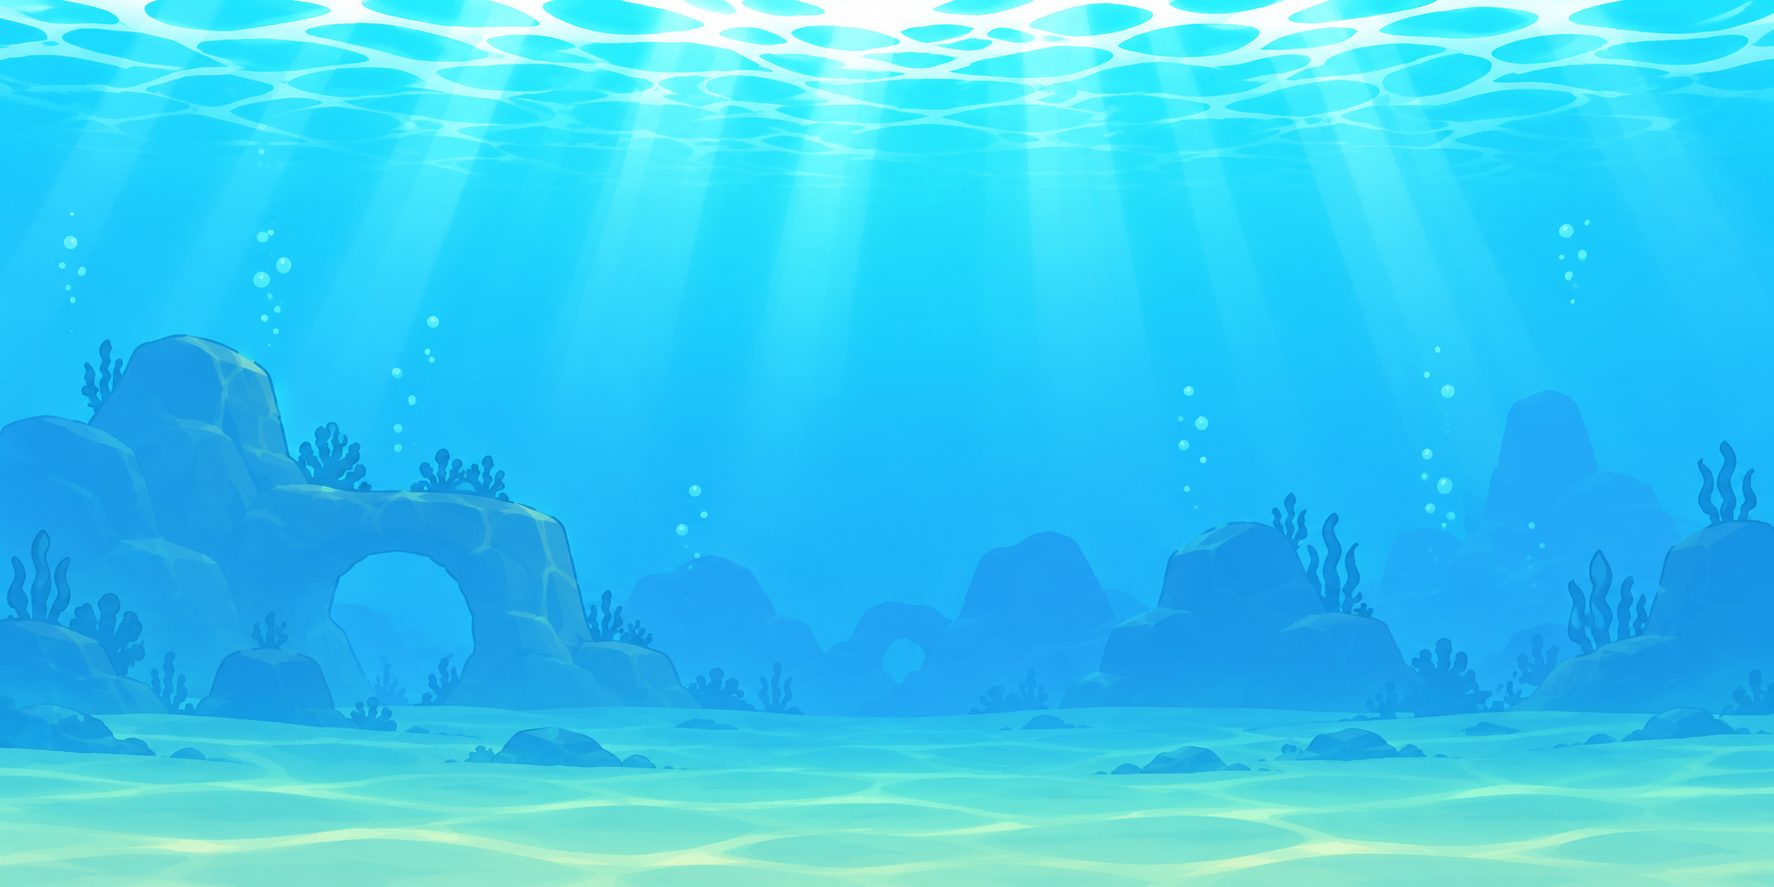
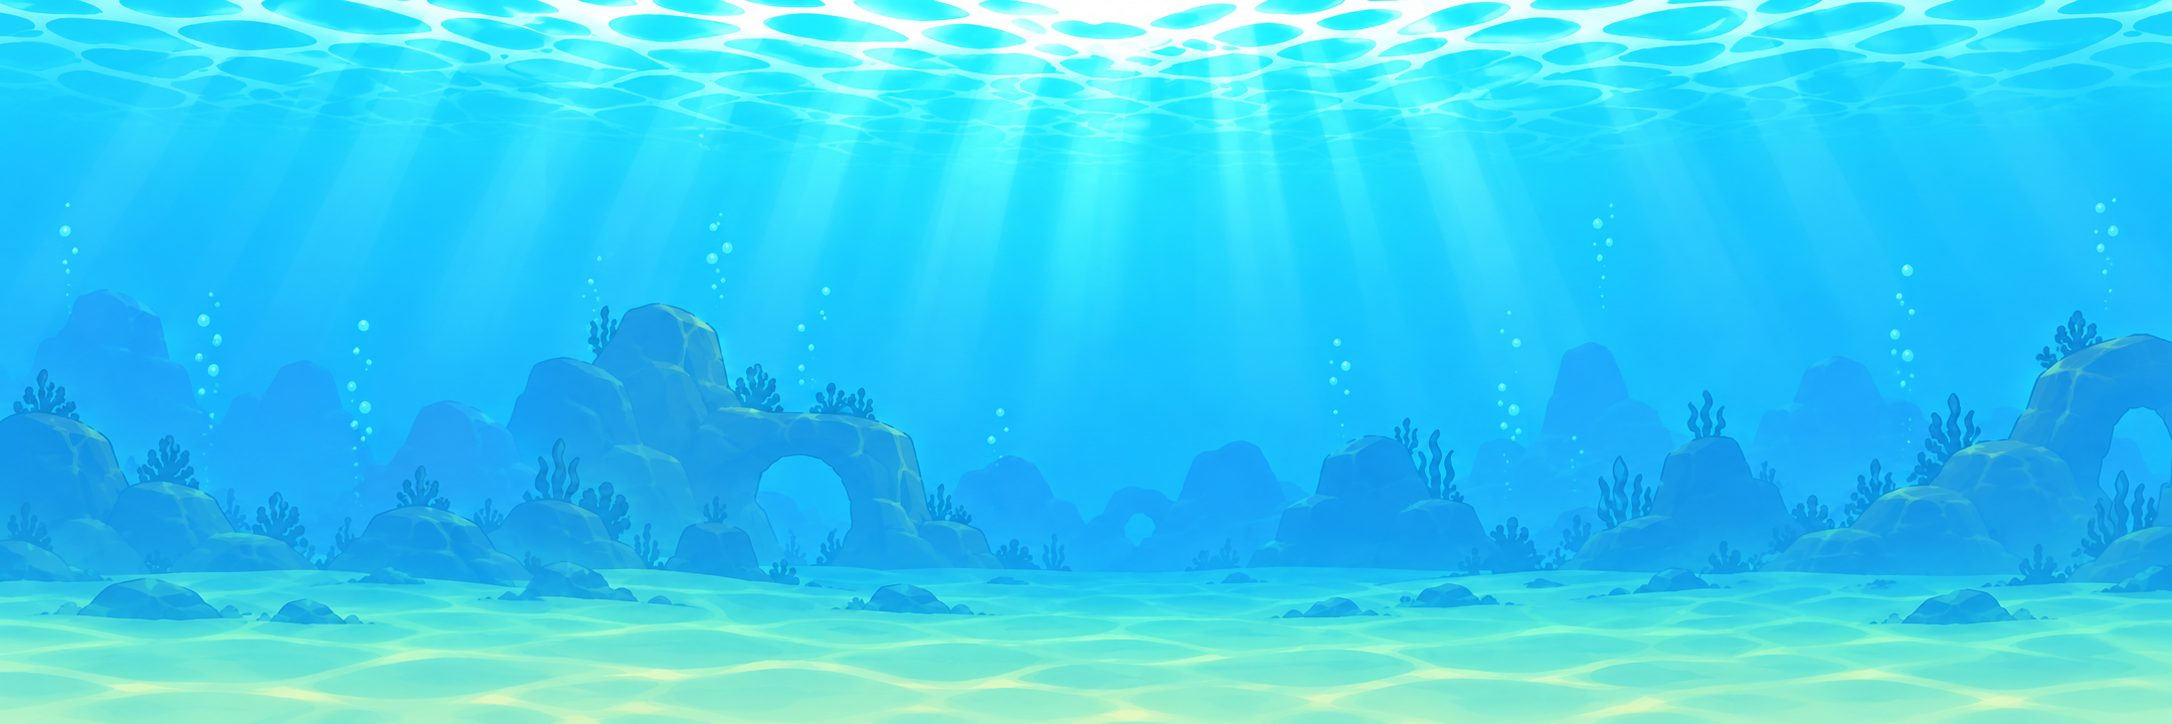
Breite Hintergründe und vier neue Welten
Jedes Level hat jetzt einen eigenen Hintergrund (3:1): Eiswelt für Strömung,
Schiffswrack für Geisternetze, Steg für Müllstrudel, offenes Meer für die
Seegraswiese. Tiefsee-Leuchtwelt und violettes Leuchtriff liegen bereit.

Claude-Session: https://claude.ai/code/session_013myMAyhZy8tkgLjGmp5djs

diff --git a/index.html b/index.html
@@ -258,19 +258,19 @@ const FACTS = [
 const LEVELS = [
   {name:'Lagune', sub:'ruhig und flach', bg:'bg_hell', floor:'boden_lagune', gf:.70, top:'#8ae6e8', bot:'#12627e', speed:.85, gap:2.0, fish:5,
    bads:['fels','seeigel'], stars:[25,50], intro:'Sammle Seegras, Muscheln und Seesterne!'},
-  {name:'Seegraswiese', sub:'viel zu futtern', bg:'bg_hell', floor:'boden_lagune', gf:.70, top:'#8ae6e8', bot:'#12627e', speed:.9, gap:1.8, fish:4,
+  {name:'Seegraswiese', sub:'viel zu futtern', bg:'bg_offen', floor:'boden_lagune', gf:.70, top:'#8ae6e8', bot:'#12627e', speed:.9, gap:1.8, fish:4,
    bads:['seeigel','fels','tuete','kugelfisch','strohhalm'], goods:{seegras:9,krabbe:3,muschel:2,stern:1,seepferd:.6,qualle:1}, stars:[30,55], intro:'Hier wächst viel Seegras. Friss dich satt!'},
   {name:'Korallenriff', sub:'bunt und stachelig', bg:'bg_riff', floor:'boden_riff', gf:.62, top:'#7fd8ee', bot:'#173f73', speed:1.0, gap:1.6, fish:3,
    bads:['seeigel','fels','tuete','kugelfisch','becher','strohhalm'], stars:[30,60], intro:'Vorsicht vor den stacheligen Seeigeln!'},
-  {name:'Strömung', sub:'das Wasser zieht', bg:'bg_riff', floor:'boden_riff', gf:.62, top:'#7fd8ee', bot:'#173f73', speed:1.0, gap:1.6, fish:3, current:70,
-   bads:['seeigel','tuete','flasche','haken','kugelfisch','strohhalm','sixpack'], stars:[30,60], intro:'Achtung, Strömung! Das Wasser zieht Ocean hoch und runter.'},
+  {name:'Strömung', sub:'eisig und strömend', bg:'bg_eis', floor:'boden_lagune', gf:.70, top:'#7fd8ee', bot:'#173f73', speed:1.0, gap:1.6, fish:3, current:70,
+   bads:['seeigel','tuete','flasche','haken','kugelfisch','strohhalm','sixpack'], stars:[30,60], intro:'Brrr, eiskalt! Und die Strömung zieht Ocean hoch und runter.'},
   {name:'Hafen', sub:'viel Müll im Wasser', bg:'bg_hafen', floor:'boden_hafen2', gf:.70, top:'#9fc3cc', bot:'#1d3f52', speed:1.05, gap:1.45, fish:8,
    bads:['tuete','flasche','dose','netz','reifen','eimer','anker','kanister','plastik','becher','sixpack'], stars:[30,60], intro:'Im Hafen liegt viel Müll. Weich ihm aus!'},
-  {name:'Geisternetze', sub:'nicht verfangen', bg:'bg_hafen', floor:'boden_hafen', gf:.62, top:'#9fc3cc', bot:'#1d3f52', speed:1.05, gap:1.5, fish:8, bigNets:true,
+  {name:'Geisternetze', sub:'das alte Wrack', bg:'bg_wrack', floor:'boden_hafen', gf:.62, top:'#9fc3cc', bot:'#1d3f52', speed:1.05, gap:1.5, fish:8, bigNets:true,
    bads:['netz','netz','netz','dose','reifen','anker','sixpack','kanister'], stars:[30,60], intro:'Alte Fischernetze treiben im Wasser. Nicht verfangen!'},
   {name:'Tiefsee', sub:'dunkel und still', bg:'bg_tief', floor:'boden_tief', gf:.70, top:'#1b4a7a', bot:'#061a33', speed:.95, gap:1.6, fish:6, dark:true,
    bads:['angler','angler','seeigel','fels','netz','kanister'], goods:{seegras:2,qualle:7,muschel:2,stern:1.2,schatz:.6}, stars:[30,55], intro:'Hier unten ist es dunkel. Ocean sieht nur, was nah ist.'},
-  {name:'Müllstrudel', sub:'such die Lücke', bg:'bg_hafen', floor:'boden_hafen2', gf:.70, top:'#9fc3cc', bot:'#1d3f52', speed:1.05, gap:2.4, fish:9, wall:3.4,
+  {name:'Müllstrudel', sub:'such die Lücke', bg:'bg_steg', floor:'boden_hafen2', gf:.70, top:'#9fc3cc', bot:'#1d3f52', speed:1.05, gap:2.4, fish:9, wall:3.4,
    bads:['tuete','dose','reifen','eimer','anker','becher','kanister','plastik','sixpack'], stars:[30,60], intro:'Ganze Müllwände! Such die Lücke.'},
   {name:'Wilde See', sub:'schnell und wild', bg:'bg_wild', floor:'boden_riff', gf:.62, top:'#7fd8ee', bot:'#173f73', speed:1.2, gap:1.35, fish:3, current:90,
    bads:['tuete','flasche','dose','netz','seeigel','fels','haken','haken','kugelfisch','becher','strohhalm','plastik'], stars:[35,65], intro:'Schnell und wild. Halt durch!'},
@@ -373,7 +373,7 @@ const L = () => LEVELS[S.lvl];
 const OR = () => 34*U;
 
 // Grafiken aus den Asset-Paketen
-const ASSETS = {"bg_heim1": [1774, 887], "bg_heim2": [1774, 887], "bg_heim3": [1774, 887], "tuete": [214, 255], "flasche": [165, 256], "dose": [220, 255], "netz": [197, 256], "seeigel": [252, 255], "seegras": [184, 256], "muschel": [256, 250], "stern": [248, 256], "herz": [234, 256], "boje": [237, 256], "fels1": [384, 281], "fels2": [384, 261], "fels3": [384, 265], "eimer": [384, 288], "reifen": [384, 235], "fisch1": [200, 162], "fisch2": [200, 140], "fisch3": [200, 161], "blasen1": [200, 177], "blasen2": [220, 133], "bg_hell": [1774, 887], "bg_riff": [1774, 887], "bg_hafen": [1774, 887], "boden_lagune": [1520, 451], "boden_riff": [1520, 420], "boden_hafen": [1520, 492], "boden_mix": [1520, 457], "seepferd": [152, 256], "schatz": [256, 247], "kugelfisch": [256, 212], "angler": [256, 194], "krabbe": [256, 197], "qualle": [218, 256], "anker": [194, 419], "haken": [103, 420], "bg_tief": [1774, 887], "bg_wild": [1774, 887], "boden_tief": [1520, 492], "boden_hafen2": [1520, 490], "torpedo": [256, 109], "gurtretter": [256, 97], "m_dose1": [135, 220], "m_dose2": [138, 217], "m_dose3": [142, 220], "m_dose4": [137, 208], "m_dose5": [146, 220], "m_dose6": [153, 203], "m_dose7": [133, 220], "m_flasche1": [95, 220], "m_flasche2": [115, 220], "m_flasche3": [124, 220], "m_flasche4": [113, 220], "m_flasche5": [220, 104], "m_flasche6": [220, 111], "m_flasche7": [220, 132], "m_netz1": [220, 126], "m_becher1": [117, 220], "m_becher2": [125, 220], "m_becher3": [117, 220], "m_becher4": [220, 187], "m_strohhalm1": [178, 200], "m_strohhalm2": [118, 220], "m_sixpack1": [220, 165], "m_kanister1": [183, 220], "m_kanister2": [141, 220], "m_kanister3": [163, 220], "m_kanister4": [174, 220], "m_plastik1": [218, 176], "m_plastik2": [220, 180], "m_plastik3": [220, 187], "m_tuete1": [204, 240], "m_tuete2": [214, 240], "m_tuete3": [220, 240], "m_tuete4": [237, 240], "m_tuete5": [228, 240]};
+const ASSETS = {"bg_offen": [2172, 724], "bg_steg": [2172, 724], "bg_eis": [2172, 724], "bg_wrack": [2172, 724], "bg_leucht": [2172, 724], "bg_violett": [2172, 724], "bg_heim1": [1774, 887], "bg_heim2": [1774, 887], "bg_heim3": [1774, 887], "tuete": [214, 255], "flasche": [165, 256], "dose": [220, 255], "netz": [197, 256], "seeigel": [252, 255], "seegras": [184, 256], "muschel": [256, 250], "stern": [248, 256], "herz": [234, 256], "boje": [237, 256], "fels1": [384, 281], "fels2": [384, 261], "fels3": [384, 265], "eimer": [384, 288], "reifen": [384, 235], "fisch1": [200, 162], "fisch2": [200, 140], "fisch3": [200, 161], "blasen1": [200, 177], "blasen2": [220, 133], "bg_hell": [1774, 887], "bg_riff": [1774, 887], "bg_hafen": [1774, 887], "boden_lagune": [1520, 451], "boden_riff": [1520, 420], "boden_hafen": [1520, 492], "boden_mix": [1520, 457], "seepferd": [152, 256], "schatz": [256, 247], "kugelfisch": [256, 212], "angler": [256, 194], "krabbe": [256, 197], "qualle": [218, 256], "anker": [194, 419], "haken": [103, 420], "bg_tief": [1774, 887], "bg_wild": [1774, 887], "boden_tief": [1520, 492], "boden_hafen2": [1520, 490], "torpedo": [256, 109], "gurtretter": [256, 97], "m_dose1": [135, 220], "m_dose2": [138, 217], "m_dose3": [142, 220], "m_dose4": [137, 208], "m_dose5": [146, 220], "m_dose6": [153, 203], "m_dose7": [133, 220], "m_flasche1": [95, 220], "m_flasche2": [115, 220], "m_flasche3": [124, 220], "m_flasche4": [113, 220], "m_flasche5": [220, 104], "m_flasche6": [220, 111], "m_flasche7": [220, 132], "m_netz1": [220, 126], "m_becher1": [117, 220], "m_becher2": [125, 220], "m_becher3": [117, 220], "m_becher4": [220, 187], "m_strohhalm1": [178, 200], "m_strohhalm2": [118, 220], "m_sixpack1": [220, 165], "m_kanister1": [183, 220], "m_kanister2": [141, 220], "m_kanister3": [163, 220], "m_kanister4": [174, 220], "m_plastik1": [218, 176], "m_plastik2": [220, 180], "m_plastik3": [220, 187], "m_tuete1": [204, 240], "m_tuete2": [214, 240], "m_tuete3": [220, 240], "m_tuete4": [237, 240], "m_tuete5": [228, 240]};
 const TILE = {"anker": 51, "haken": 10};
 const SPR = {};
 for (const k in ASSETS){ const im = new Image(); im.src = 'img/' + k + (k.startsWith('bg_') ? '.jpg' : '.webp'); SPR[k] = im; }

diff --git a/README.md b/README.md
@@ -16,13 +16,13 @@ Zehn Level à 60 Sekunden, jedes mit eigenem Hintergrund, Meeresboden und einem 
 | Level | Besonderheit | Hindernisse |
 |---|---|---|
 | 1. Lagune | ruhig, zum Eingewöhnen | Felsen, Seeigel |
-| 2. Seegraswiese | viel Seegras und Krabben | Seeigel, Felsen, Tüte, Kugelfisch |
+| 2. Seegraswiese | offenes Meer mit Fischschwärmen, viel Seegras und Krabben | Seeigel, Felsen, Tüte, Kugelfisch |
 | 3. Korallenriff | etwas schneller | Seeigel, Felsen, Tüte, Kugelfisch |
-| 4. Strömung | Wasser zieht Ocean hoch und runter | Seeigel, Tüte, Flasche, Angelhaken, Kugelfisch |
+| 4. Strömung | Eiswelt, Wasser zieht Ocean hoch und runter | Seeigel, Tüte, Flasche, Angelhaken, Kugelfisch |
 | 5. Hafen | Kaimauer und Schiffsrumpf, viel Müll | Tüte, Flasche, Dose, Netz, Reifen, Eimer, Anker |
-| 6. Geisternetze | viele große, treibende Netze | Netze, Dose, Reifen, Anker |
+| 6. Geisternetze | altes Schiffswrack, viele große, treibende Netze | Netze, Dose, Reifen, Anker |
 | 7. Tiefsee | dunkel, viele Quallen, Schatz am Grund | Anglerfische, Seeigel, Felsen, Netz |
-| 8. Müllstrudel | Müllwände mit einer Lücke | Wände aus Tüten, Flaschen, Dosen, Anker |
+| 8. Müllstrudel | Steg im trüben Wasser, Müllwände mit einer Lücke | Wände aus Tüten, Flaschen, Dosen, Anker |
 | 9. Wilde See | Wellen, starke Strömung | fast alles, viele Angelhaken |
 | 10. Heimweg | Seegraswiese → Korallenbucht → Oceans Höhle, Müllwände | fast alles |
 
@@ -40,7 +40,7 @@ Zehn Level à 60 Sekunden, jedes mit eigenem Hintergrund, Meeresboden und einem 
 
 - `index.html` – das komplette Spiel (HTML, CSS, JavaScript in einer Datei)
 - `img/` – aufbereitete Spielgrafiken (zugeschnitten, verkleinert, WebP/JPG)
-- `quellgrafiken/original/` – die Originalgrafiken in voller Größe
+- `quellgrafiken/original/` – die Originalgrafiken in voller Größe (breite 3:1-Hintergründe in `hintergruende/breit/`)
 - `quellgrafiken/rig.json` – Gelenkpunkte, mit denen Ocean aus Körper, Kopf und Flossen zusammengesetzt wird
 - `quellgrafiken/assets.json` – Größen der Spielgrafiken und Kachelhöhe von Ankerkette und Angelschnur (auch in `index.html` eingebettet)
 
